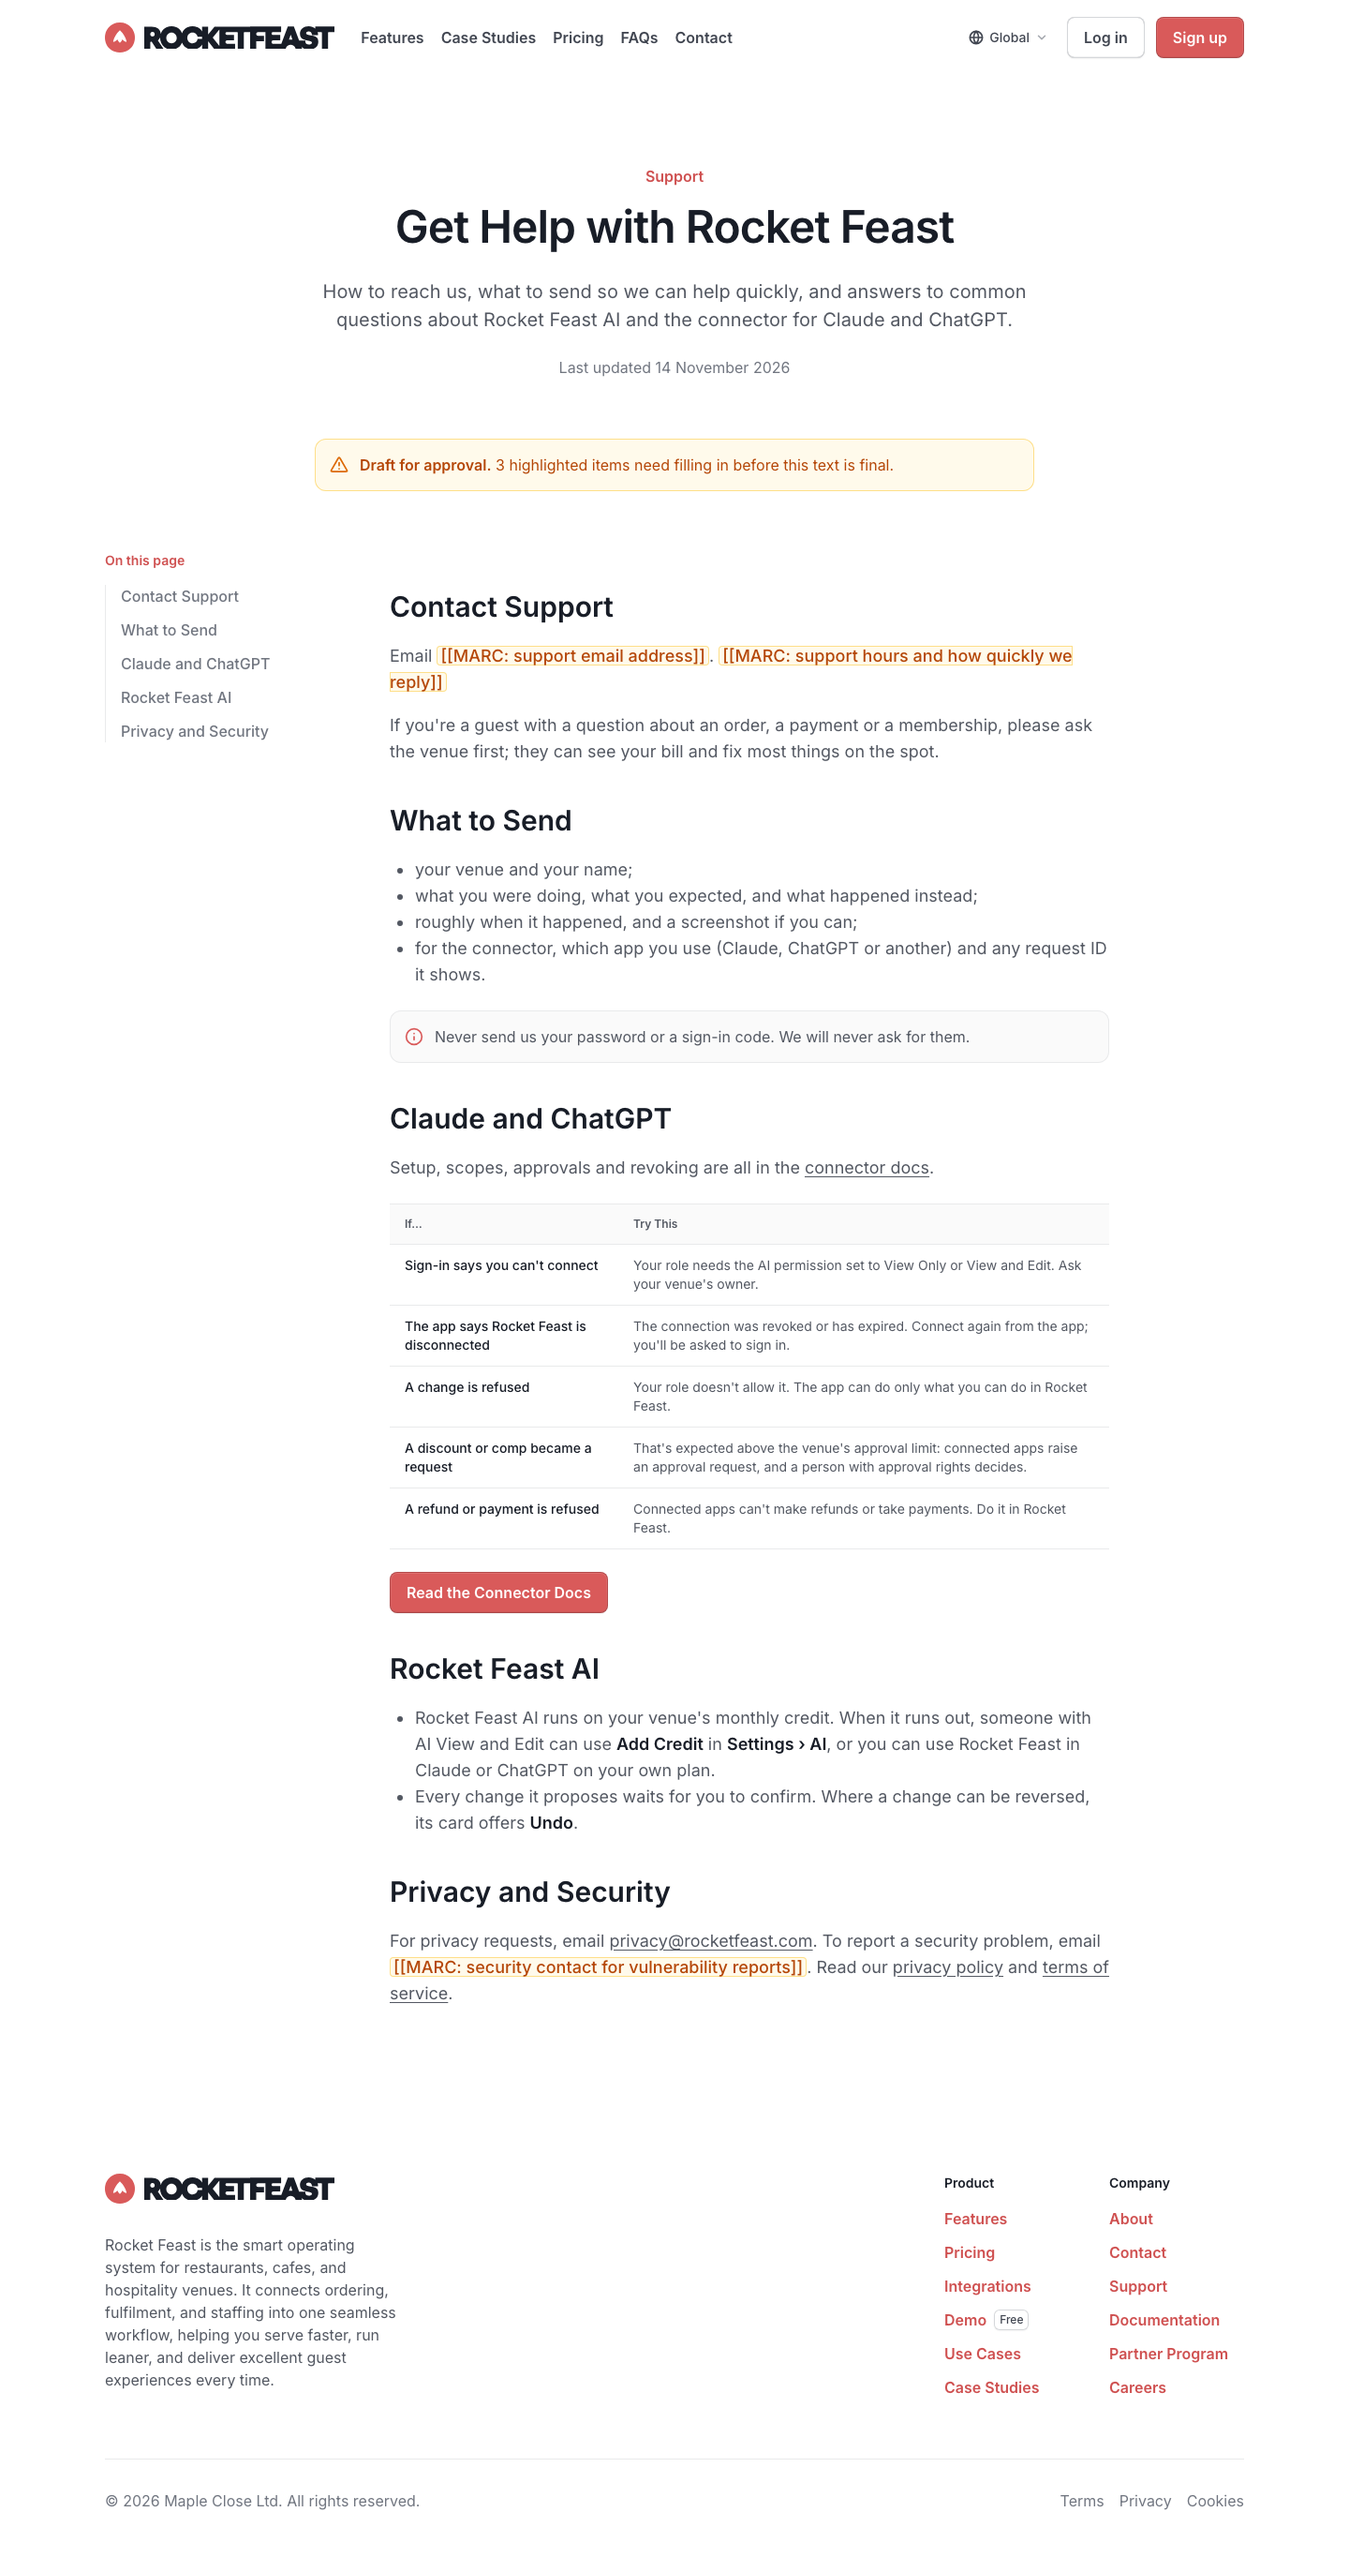
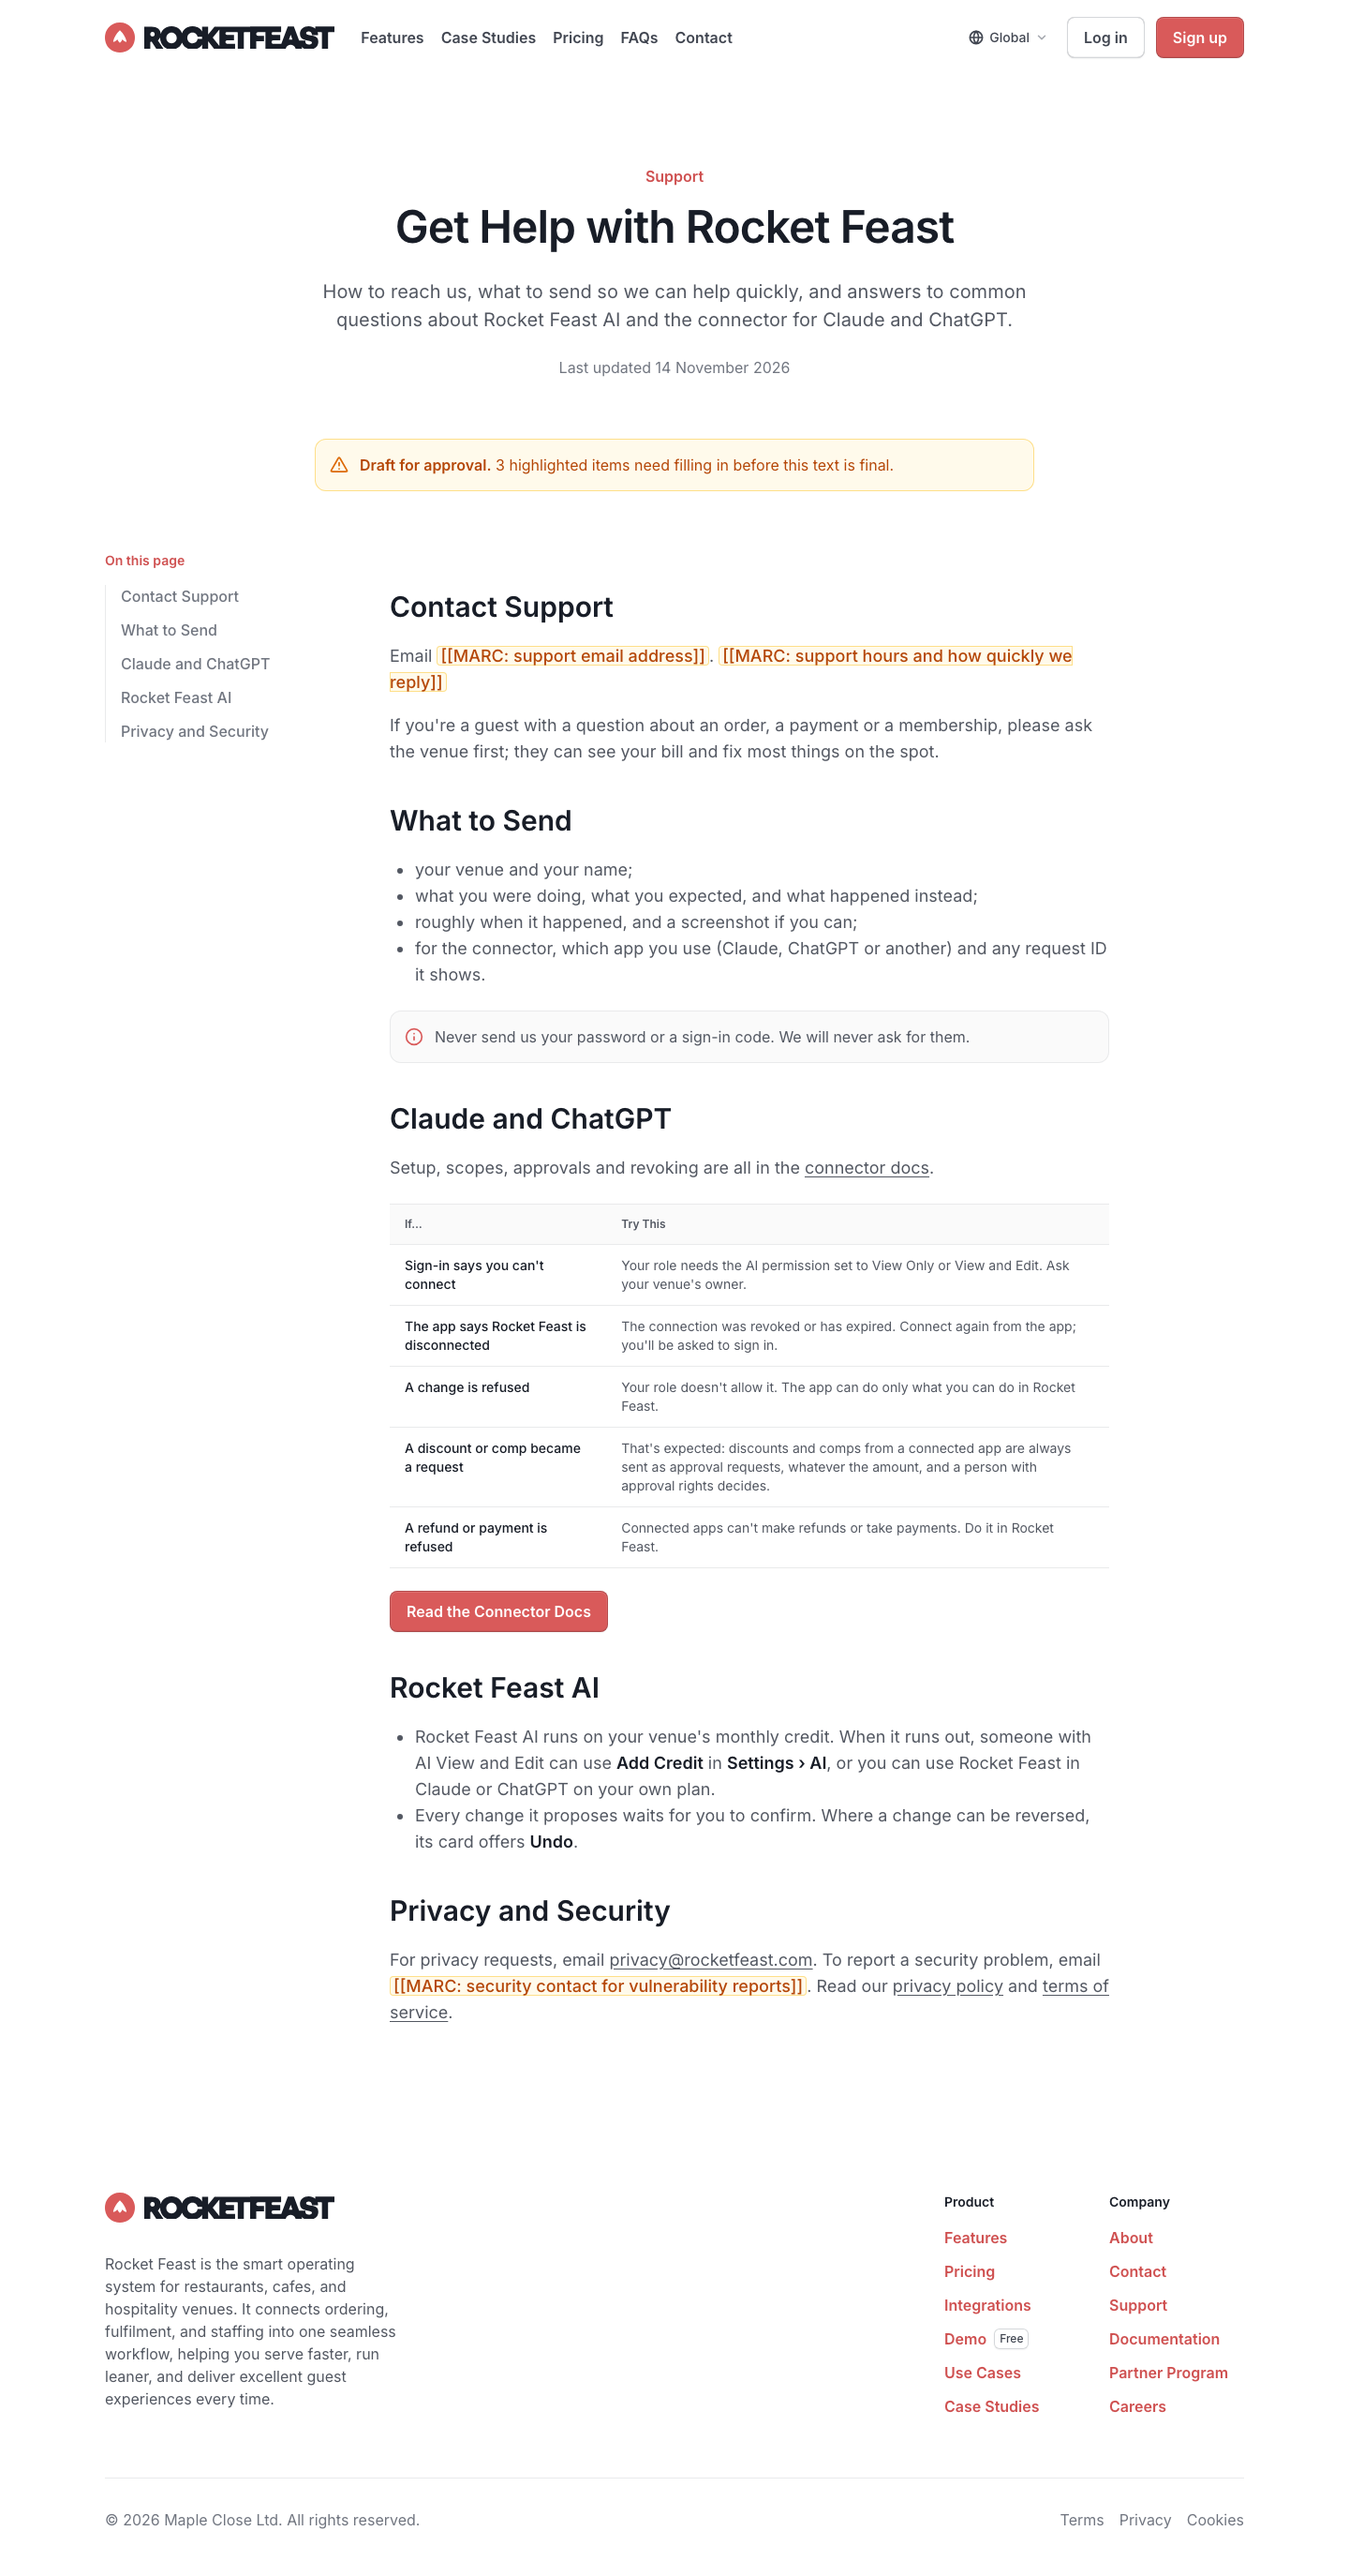
fix(assistant): w1 delta D1-D3 money and change-history wording
- D1: discounts, item discounts and comps from a connected app (or Rocket
  Feast AI) are always approval requests, whatever the amount (owner rule
  13 Nov; discountApprovalWorkflow.ts:375-385, itemDiscounts.ts:355-358).
  Tests now fail on any "above the approval limit" wording.
- D2: "the change history shows when a change came through a connected app".
- D3: only giving or taking back vouchers is refused; applying a guest's own
  voucher is allowed.

diff --git a/src/content/legal/legal-content.test.ts b/src/content/legal/legal-content.test.ts
@@ -104,6 +104,14 @@ describe("legal and docs documents", () => {
         expect(collectPlaceholders(LEGAL_DOCUMENTS)).toContain("[[MARC: confirm the registered company name is Maple Close Limited]]");
     });
 
+    it("never limit discount and comp requests to amounts above the approval limit (they are always requests)", () => {
+        for (const doc of LEGAL_DOCUMENTS) expect(allText(doc), doc.path).not.toMatch(/above the (venue's )?(approval )?limit/i);
+    });
+
+    it("never refuse vouchers outright: applying a guest's own voucher is allowed", () => {
+        for (const doc of LEGAL_DOCUMENTS) expect(allText(doc), doc.path).not.toMatch(/points, vouchers/);
+    });
+
     it("never promise that refunds become approval requests (refused while REFUND_REQUESTS_ENABLED is off)", () => {
         for (const doc of LEGAL_DOCUMENTS) {
             for (const sentence of documentStrings(doc).flatMap((text) => text.split(/(?<=[.;:!?])\s+/))) {
@@ -153,9 +161,13 @@ describe("/docs/mcp", () => {
         expect(text).toContain("Settings › AI");
         expect(text).toMatch(/approval request/i);
         const money = documentStrings({ ...docsMcp, sections: docsMcp.sections.filter((s) => s.id === "money") }).join(" ");
-        expect(money).toMatch(/above the venue's approval limit/);
-        expect(money).toMatch(/Refunds, payments, points, vouchers.*refused/);
-        expect(text).not.toMatch(/as if you had made it yourself/);
+        // Owner rule 13 Nov: discounts, item discounts and comps from a connected app are always requests,
+        // whatever the amount (backend discountApprovalWorkflow.ts:375-385, itemDiscounts.ts:355-358).
+        expect(money).toMatch(/are always sent as \*\*approval requests\*\*, whatever the amount/);
+        // Applying a guest's own voucher is allowed; only giving or taking back vouchers is refused.
+        expect(money).toMatch(/Refunds, payments, points, giving or taking back vouchers.*refused/);
+        expect(text).not.toMatch(/as if you had made it yourself|marked as made through a connected app/);
+        expect(text).toMatch(/the change history shows when a change came through a connected app/);
         expect(text).toContain("Rocket Feast AI");
         expect(text).toContain("View Only");
         expect(text).toContain("View and Edit");

diff --git a/src/content/legal/shared.ts b/src/content/legal/shared.ts
@@ -27,6 +27,6 @@ export const THAILAND_PLACEHOLDER = "[[MARC: who the customer contracts with, an
  * REFUND_REQUESTS_ENABLED is off). Kept as separate sentences so refunds are never tied to a request.
  */
 export const MONEY_REQUESTS =
-    "Bill discounts, item discounts and comps above the venue's approval limit are sent as **approval requests** for a person with approval rights to approve or decline in Rocket Feast.";
+    "Bill discounts, item discounts and comps are always sent as **approval requests**, whatever the amount, for a person with approval rights to approve or decline in Rocket Feast.";
 export const MONEY_REFUSED =
-    "Refunds, payments, points, vouchers, reopening or merging bills, and expenses are refused. Staff do them in Rocket Feast, and approving or declining requests is also left to staff.";
+    "Refunds, payments, points, giving or taking back vouchers, reopening or merging bills, and expenses are refused. Staff do them in Rocket Feast, and approving or declining requests is also left to staff.";

diff --git a/src/content/legal/support.ts b/src/content/legal/support.ts
@@ -60,7 +60,7 @@ export const support: LegalDocument = {
                         ["A change is refused", "Your role doesn't allow it. The app can do only what you can do in Rocket Feast."],
                         [
                             "A discount or comp became a request",
-                            "That's expected above the venue's approval limit: connected apps raise an approval request, and a person with approval rights decides.",
+                            "That's expected: discounts and comps from a connected app are always sent as approval requests, whatever the amount, and a person with approval rights decides.",
                         ],
                         ["A refund or payment is refused", "Connected apps can't make refunds or take payments. Do it in Rocket Feast."],
                     ],

diff --git a/src/content/legal/docs-mcp.ts b/src/content/legal/docs-mcp.ts
@@ -161,7 +161,7 @@ export const docsMcp: LegalDocument = {
                     items: [
                         "Neither scope gives more than your role allows. If your role can't edit the menu, the app can't either.",
                         "A connection granted only `read` can't make changes.",
-                        "Every change is saved in Rocket Feast under your name, marked as made through a connected app.",
+                        "Changes are made as you, and the change history shows when a change came through a connected app.",
                     ],
                 },
             ],
